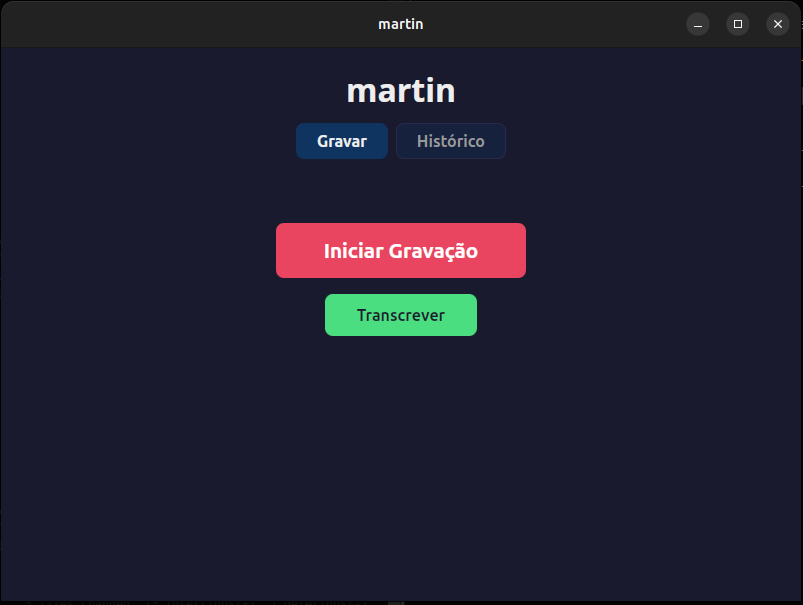
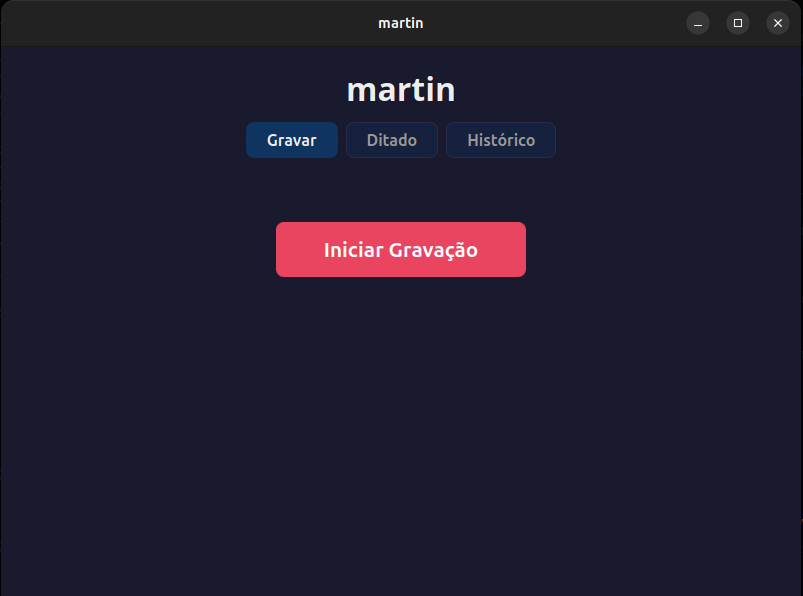
docs(readme): refresh screenshots with current UI; add recording flow images

diff --git a/README.md b/README.md
@@ -6,13 +6,17 @@ Two modes: **Record** meetings with dual audio capture (mic + system), or **Dict
 
 ## Screenshots
 
-| Recorder | History |
-|----------|---------|
-| ![Recorder](docs/images/recorder.png) | ![History](docs/images/history.png) |
+| Recorder | Recording in progress |
+|----------|-----------------------|
+| ![Recorder](docs/images/recorder.png) | ![Recording](docs/images/recorder-recording.png) |
 
-| Summary |
-|---------|
-| ![Summary](docs/images/summary.png) |
+| Pending recordings | Finalizing transcription |
+|--------------------|--------------------------|
+| ![Pending](docs/images/recorder-pending.png) | ![Finalizing](docs/images/finalizing.png) |
+
+| History | Summary |
+|---------|---------|
+| ![History](docs/images/history.png) | ![Summary](docs/images/summary.png) |
 
 ## Features
 
